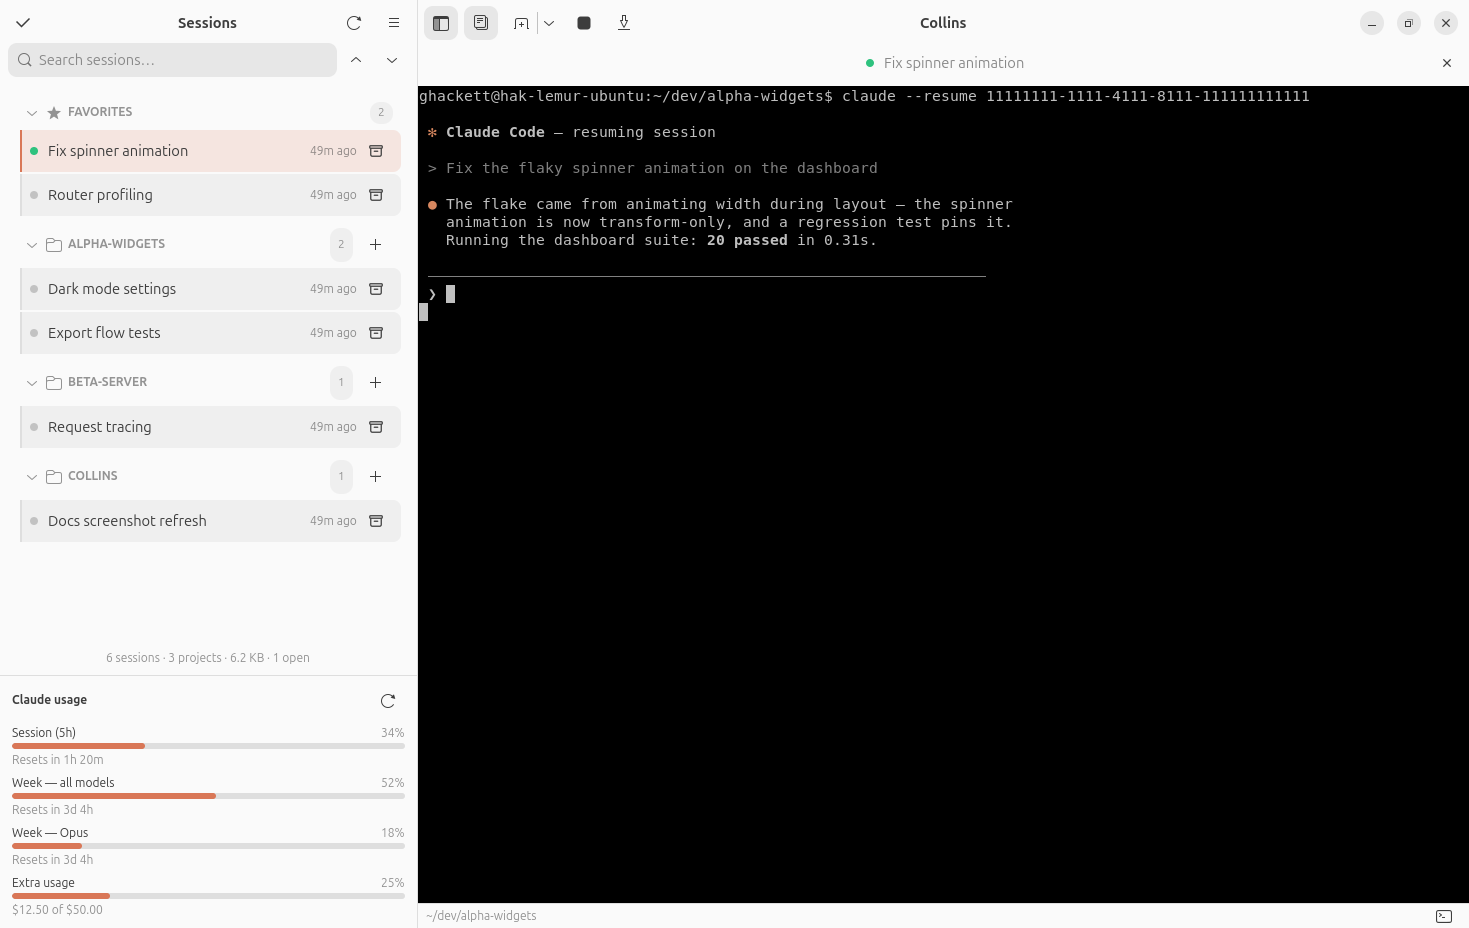
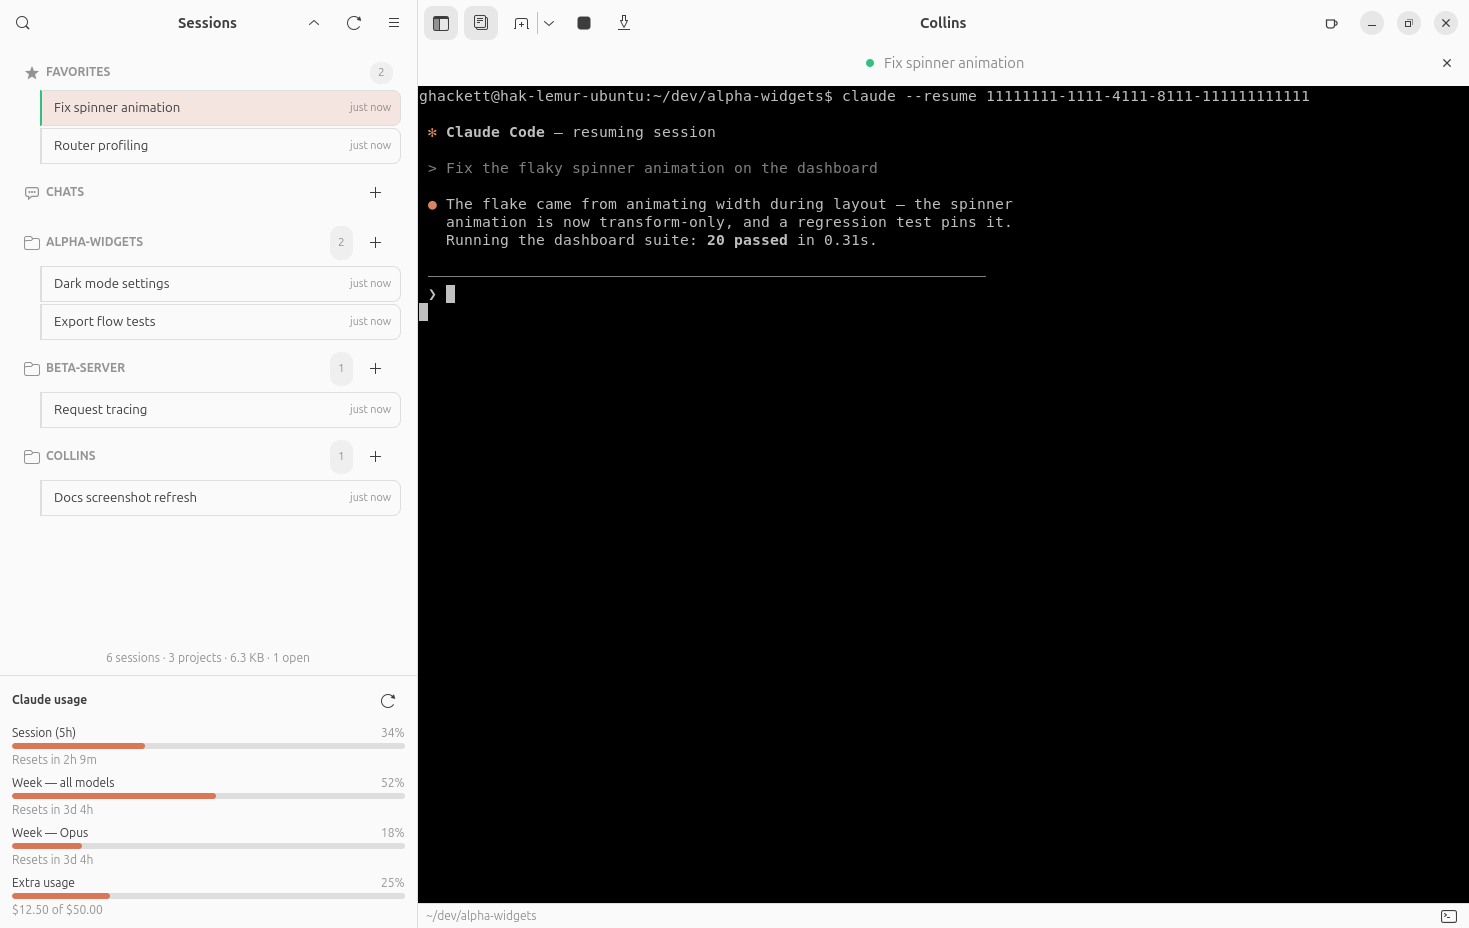
feat(sidebar): fold search behind a button, one accordion toggle, select mode into the menu
The sidebar header now carries every list-level control, and the permanent
search row is gone — the list starts right under the header.

- Search hides behind a button on the left. Clicking it hands the whole
  header to the entry and turns the button into an X (Esc works too), which
  closes search and restores the unfiltered list. Ctrl+Shift+F opens it.
- Collapse-all and expand-all become one toggle, left of refresh: it folds
  every group away, then flips to expanding them all once nothing is left
  open.
- "Select sessions" leaves the header for the menu as "Select multiple
  sessions", a stateful win.select-sessions action so the menu item shows
  whether selection mode is on.

Docs and the sidebar screenshots are refreshed for the new header.

Claude-Session: https://claude.ai/code/session_01YV3NR9HgiuSYfeqm1cQBc6

diff --git a/collins/sidebar.py b/collins/sidebar.py
@@ -1,6 +1,6 @@
 # Modified from the original agent-session-manager
 # (https://github.com/r4nd3l/agent-session-manager, GPL-3.0) in the ghackett
-# fork. Last modified: 2026-07-29. Full change history: git log for this file.
+# fork. Last modified: 2026-07-30. Full change history: git log for this file.
 
 """Session sidebar: search, project accordion, favorites, selection mode.
 
@@ -525,50 +525,48 @@ class SessionSidebar(Gtk.Box):
         # AdwOverlaySplitView coordinating the two bars, hide them here so they
         # aren't duplicated at the pane boundary.
         header.set_show_end_title_buttons(False)
-        header.set_title_widget(Adw.WindowTitle(title=_("Sessions")))
+        self._header = header
+        self._window_title = Adw.WindowTitle(title=_("Sessions"))
+        header.set_title_widget(self._window_title)
 
-        self.select_btn = Gtk.ToggleButton(icon_name="object-select-symbolic")
-        self.select_btn.set_tooltip_text(_("Select sessions"))
-        self.select_btn.connect("toggled", lambda b: self._set_selection_mode(b.get_active()))
-        header.pack_start(self.select_btn)
+        # Search is folded away behind a button: it costs the list a whole row
+        # when it sits there permanently, and it is reached a handful of times
+        # a session. Opening it hands the entry the header (see
+        # _set_search_active).
+        self.search_entry = Gtk.SearchEntry(placeholder_text=_("Search sessions…"), hexpand=True)
+        self.search_entry.connect("search-changed", lambda *_: self._invalidate())
+        self.search_entry.connect("stop-search", lambda *_: self.search_btn.set_active(False))
+
+        self.search_btn = Gtk.ToggleButton(icon_name="system-search-symbolic")
+        self.search_btn.set_tooltip_text(_("Search sessions"))
+        self.search_btn.connect("toggled", lambda b: self._set_search_active(b.get_active()))
+        header.pack_start(self.search_btn)
 
         menu = Gio.Menu()
+        menu.append(_("Select multiple sessions"), "win.select-sessions")
         menu.append(_("Open session file…"), "win.open-session-file")
         menu.append(_("Show archived sessions"), "win.show-archived")
         menu.append(_("Delete archived sessions…"), "win.trash-archived")
         menu.append(_("MCP servers"), "win.mcp-servers")
         menu.append(_("Preferences"), "win.preferences")
         menu.append(_("About Collins"), "win.about")
-        header.pack_end(Gtk.MenuButton(icon_name="open-menu-symbolic", menu_model=menu))
+        self._menu_btn = Gtk.MenuButton(icon_name="open-menu-symbolic", menu_model=menu)
+        header.pack_end(self._menu_btn)
 
-        refresh_btn = Gtk.Button(icon_name="view-refresh-symbolic")
-        refresh_btn.set_tooltip_text(_("Refresh session list"))
-        refresh_btn.set_action_name("win.refresh")
-        header.pack_end(refresh_btn)
+        self._refresh_btn = Gtk.Button(icon_name="view-refresh-symbolic")
+        self._refresh_btn.set_tooltip_text(_("Refresh session list"))
+        self._refresh_btn.set_action_name("win.refresh")
+        header.pack_end(self._refresh_btn)
+
+        # One button for both directions: it folds every group away, and once
+        # nothing is left expanded it opens them all again.
+        self._collapse_btn = Gtk.Button()
+        self._collapse_btn.connect(
+            "clicked", lambda *_: self._set_all_collapsed(not self._all_collapsed())
+        )
+        header.pack_end(self._collapse_btn)
+        self._update_collapse_button()
         self._view.add_top_bar(header)
-
-        # -- search + accordion controls --------------------------------------
-        self.search_entry = Gtk.SearchEntry(placeholder_text=_("Search sessions…"), hexpand=True)
-        self.search_entry.connect("search-changed", lambda *_: self._invalidate())
-
-        collapse_all = Gtk.Button(icon_name="pan-up-symbolic")
-        collapse_all.add_css_class("flat")
-        collapse_all.set_tooltip_text(_("Collapse all groups"))
-        collapse_all.connect("clicked", lambda *_: self._set_all_collapsed(True))
-
-        expand_all = Gtk.Button(icon_name="pan-down-symbolic")
-        expand_all.add_css_class("flat")
-        expand_all.set_tooltip_text(_("Expand all groups"))
-        expand_all.connect("clicked", lambda *_: self._set_all_collapsed(False))
-
-        search_box = Gtk.Box(orientation=Gtk.Orientation.HORIZONTAL, spacing=2)
-        search_box.set_margin_start(8)
-        search_box.set_margin_end(8)
-        search_box.set_margin_bottom(6)
-        search_box.append(self.search_entry)
-        search_box.append(collapse_all)
-        search_box.append(expand_all)
-        self._view.add_top_bar(search_box)
 
         # -- list ------------------------------------------------------------
         self.list = Gtk.ListBox()
@@ -750,6 +748,7 @@ class SessionSidebar(Gtk.Box):
                 self._rows[item.session_id] = row
                 self.list.append(row)
         self._apply_selection_to_rows()
+        self._update_collapse_button()
 
     def _apply_selection_to_rows(self) -> None:
         for row in self._rows.values():
@@ -793,7 +792,33 @@ class SessionSidebar(Gtk.Box):
         self._rebuild_rows()
         self._invalidate()
 
+    # -- search ------------------------------------------------------------------
+
+    def _set_search_active(self, active: bool) -> None:
+        """Swap the sidebar's title for the search entry, and back.
+
+        The entry takes the header over rather than sharing it: the sidebar is
+        narrow, and a search field squeezed between the other buttons would
+        show only a few characters of the query. The other buttons step aside
+        while searching — the X that replaces the search button brings them
+        back.
+        """
+        self.search_btn.set_icon_name(
+            "window-close-symbolic" if active else "system-search-symbolic"
+        )
+        self.search_btn.set_tooltip_text(_("Close search") if active else _("Search sessions"))
+        for button in (self._collapse_btn, self._refresh_btn, self._menu_btn):
+            button.set_visible(not active)
+        if active:
+            self._header.set_title_widget(self.search_entry)
+            self.search_entry.grab_focus()
+        else:
+            self.search_entry.set_text("")  # closing search unfilters the list
+            self._header.set_title_widget(self._window_title)
+
     def focus_search(self) -> None:
+        """Open search if it is folded away, and put the cursor in it."""
+        self.search_btn.set_active(True)
         self.search_entry.grab_focus()
 
     # -- filtering / grouping ----------------------------------------------------
@@ -831,6 +856,7 @@ class SessionSidebar(Gtk.Box):
         header = self._header_rows.get(group_key)
         if header is not None:
             header.set_collapsed(group_key in self._collapsed)
+        self._update_collapse_button()
         self._invalidate()
 
     def _set_all_collapsed(self, collapsed: bool) -> None:
@@ -840,7 +866,19 @@ class SessionSidebar(Gtk.Box):
         )
         for group_key, header in self._header_rows.items():
             header.set_collapsed(group_key in self._collapsed)
+        self._update_collapse_button()
         self._invalidate()
+
+    def _all_collapsed(self) -> bool:
+        return bool(self._header_rows) and set(self._header_rows) <= self._collapsed
+
+    def _update_collapse_button(self) -> None:
+        """Point the accordion toggle at whichever move is left to make."""
+        expands = self._all_collapsed()
+        self._collapse_btn.set_icon_name("pan-down-symbolic" if expands else "pan-up-symbolic")
+        self._collapse_btn.set_tooltip_text(
+            _("Expand all groups") if expands else _("Collapse all groups")
+        )
 
     # -- drag & drop project reordering ---------------------------------------
 
@@ -1069,7 +1107,9 @@ class SessionSidebar(Gtk.Box):
             self.action_bar.pack_end(button)
         return self.action_bar
 
-    def _set_selection_mode(self, active: bool) -> None:
+    def set_selection_mode(self, active: bool) -> None:
+        """Show a checkbox on every row and reveal the bulk action bar. Driven
+        by the window's "Select multiple sessions" menu item."""
         self._selection_mode = active
         if not active:
             self._selected.clear()

diff --git a/po/generate.py b/po/generate.py
@@ -1,7 +1,7 @@
 #!/usr/bin/env python3
 # Modified from the original agent-session-manager
 # (https://github.com/r4nd3l/agent-session-manager, GPL-3.0) in the ghackett
-# fork. Last modified: 2026-07-28. Full change history: git log for this file.
+# fork. Last modified: 2026-07-30. Full change history: git log for this file.
 """Generate per-language .po files and compile .mo into the package.
 
 Run from the repo root:  python3 po/generate.py
@@ -130,12 +130,14 @@ TRANSLATIONS: dict[str, dict[str, str]] = {
         "Remove from favorites": "Eltávolítás a kedvencekből",
         "Add to favorites": "Hozzáadás a kedvencekhez",
         "Sessions": "Munkamenetek",
-        "Select sessions": "Munkamenetek kijelölése",
+        "Select multiple sessions": "Több munkamenet kijelölése",
         "Show archived sessions": "Archivált munkamenetek megjelenítése",
         "MCP servers": "MCP-kiszolgálók",
         "About Collins": "A Collins névjegye",
         "Refresh session list": "Munkamenetlista frissítése",
         "Search sessions…": "Munkamenetek keresése…",
+        "Search sessions": "Munkamenetek keresése",
+        "Close search": "Keresés bezárása",
         "Collapse all groups": "Összes csoport összecsukása",
         "Expand all groups": "Összes csoport kibontása",
         "No sessions found": "Nincs találat",
@@ -381,12 +383,14 @@ TRANSLATIONS: dict[str, dict[str, str]] = {
         "Remove from favorites": "Aus Favoriten entfernen",
         "Add to favorites": "Zu Favoriten hinzufügen",
         "Sessions": "Sitzungen",
-        "Select sessions": "Sitzungen auswählen",
+        "Select multiple sessions": "Mehrere Sitzungen auswählen",
         "Show archived sessions": "Archivierte Sitzungen anzeigen",
         "MCP servers": "MCP-Server",
         "About Collins": "Über Collins",
         "Refresh session list": "Sitzungsliste aktualisieren",
         "Search sessions…": "Sitzungen suchen…",
+        "Search sessions": "Sitzungen suchen",
+        "Close search": "Suche schließen",
         "Collapse all groups": "Alle Gruppen einklappen",
         "Expand all groups": "Alle Gruppen ausklappen",
         "No sessions found": "Keine Sitzungen gefunden",
@@ -636,12 +640,14 @@ TRANSLATIONS: dict[str, dict[str, str]] = {
         "Remove from favorites": "Quitar de favoritos",
         "Add to favorites": "Añadir a favoritos",
         "Sessions": "Sesiones",
-        "Select sessions": "Seleccionar sesiones",
+        "Select multiple sessions": "Seleccionar varias sesiones",
         "Show archived sessions": "Mostrar sesiones archivadas",
         "MCP servers": "Servidores MCP",
         "About Collins": "Acerca de Collins",
         "Refresh session list": "Actualizar la lista de sesiones",
         "Search sessions…": "Buscar sesiones…",
+        "Search sessions": "Buscar sesiones",
+        "Close search": "Cerrar la búsqueda",
         "Collapse all groups": "Contraer todos los grupos",
         "Expand all groups": "Expandir todos los grupos",
         "No sessions found": "No se encontraron sesiones",
@@ -890,12 +896,14 @@ TRANSLATIONS: dict[str, dict[str, str]] = {
         "Remove from favorites": "Retirer des favoris",
         "Add to favorites": "Ajouter aux favoris",
         "Sessions": "Sessions",
-        "Select sessions": "Sélectionner des sessions",
+        "Select multiple sessions": "Sélectionner plusieurs sessions",
         "Show archived sessions": "Afficher les sessions archivées",
         "MCP servers": "Serveurs MCP",
         "About Collins": "À propos de Collins",
         "Refresh session list": "Actualiser la liste des sessions",
         "Search sessions…": "Rechercher des sessions…",
+        "Search sessions": "Rechercher des sessions",
+        "Close search": "Fermer la recherche",
         "Collapse all groups": "Réduire tous les groupes",
         "Expand all groups": "Développer tous les groupes",
         "No sessions found": "Aucune session trouvée",
@@ -1039,7 +1047,7 @@ TRANSLATIONS: dict[str, dict[str, str]] = {
 _HEADER = (
     "# Modified from the original agent-session-manager\n"
     "# (https://github.com/r4nd3l/agent-session-manager, GPL-3.0) in the ghackett\n"
-    "# fork. Last modified: 2026-07-28. Full change history: git log for this file.\n"
+    "# fork. Last modified: 2026-07-30. Full change history: git log for this file.\n"
     "# Generated by po/generate.py — do not edit by hand.\n"
     'msgid ""\n'
     'msgstr ""\n'

diff --git a/collins/window.py b/collins/window.py
@@ -1,6 +1,6 @@
 # Modified from the original agent-session-manager
 # (https://github.com/r4nd3l/agent-session-manager, GPL-3.0) in the ghackett
-# fork. Last modified: 2026-07-29. Full change history: git log for this file.
+# fork. Last modified: 2026-07-30. Full change history: git log for this file.
 """Main window: composes the session sidebar with the tabbed terminal area."""
 
 from __future__ import annotations
@@ -522,6 +522,12 @@ class MainWindow(Adw.ApplicationWindow):
         )
         show_archived.connect("change-state", self._on_show_archived)
         self.add_action(show_archived)
+
+        select_sessions = Gio.SimpleAction.new_stateful(
+            "select-sessions", None, GLib.Variant.new_boolean(False)
+        )
+        select_sessions.connect("change-state", self._on_select_sessions)
+        self.add_action(select_sessions)
 
     def _install_shortcuts(self) -> None:
         controller = Gtk.ShortcutController()
@@ -1691,6 +1697,10 @@ class MainWindow(Adw.ApplicationWindow):
     def _on_show_archived(self, action: Gio.SimpleAction, value: GLib.Variant) -> None:
         action.set_state(value)
         self.store.set_show_archived(value.get_boolean())
+
+    def _on_select_sessions(self, action: Gio.SimpleAction, value: GLib.Variant) -> None:
+        action.set_state(value)
+        self.sidebar.set_selection_mode(value.get_boolean())
 
     def _sync_trash_archived_action(self) -> None:
         self._trash_archived_action.set_enabled(bool(self.store.archived_sessions()))

diff --git a/.agents/capture-screenshots/scripts/capture-docs.py b/.agents/capture-screenshots/scripts/capture-docs.py
@@ -74,6 +74,7 @@ def stage(win) -> None:
     if panel:
         win.tab_view.get_selected_page().get_child().show_panel()
     if scene == "sidebar-search":
+        win.sidebar.search_btn.set_active(True)  # search hides behind its button
         win.sidebar.search_entry.set_text("dark")
     elif scene == "quick-switcher":
         win._quick_switch()

diff --git a/README.md b/README.md
@@ -1,7 +1,7 @@
 <!--
 Modified from the original agent-session-manager
 (https://github.com/r4nd3l/agent-session-manager, GPL-3.0) in the ghackett
-fork. Last modified: 2026-07-29. Full change history: git log for this file.
+fork. Last modified: 2026-07-30. Full change history: git log for this file.
 -->
 
 # Collins
@@ -23,7 +23,7 @@ Collins is a fork of [agent-session-manager](https://github.com/r4nd3l/agent-ses
 
 Features:
 
-- **Sidebar** lists every session found on disk (for Claude Code, under `~/.claude/projects/`), grouped by project (collapsible headers, with collapse-all/expand-all buttons next to the search box), with a **Favorites** section pinned on top — star a session to move it there. **Drag a project header** to rearrange projects — the order and each project's expanded state persist across restarts. A **search box** filters by name, project, preview, or session id, and the list **updates live** as sessions are created or written to.
+- **Sidebar** lists every session found on disk (for Claude Code, under `~/.claude/projects/`), grouped by project (collapsible headers, with a collapse-all/expand-all toggle in the sidebar header), with a **Favorites** section pinned on top — star a session to move it there. **Drag a project header** to rearrange projects — the order and each project's expanded state persist across restarts. The **search button** (or `Ctrl+Shift+F`) hands the sidebar header over to a search box that filters by name, project, preview, or session id, and the list **updates live** as sessions are created or written to.
 - Sessions can be given **custom names** (right-click → Rename…, or rename the session's tab), and unnamed sessions get an **auto-generated title**: pre-existing sessions are titled locally on launch (first 10 words of the initial prompt), while sessions created during an app run have their first prompt summarized to ≤5 words by a headless `claude -p --model haiku` run — the same CLI and login the whole app is based on, no extra credentials needed. Titles are persisted so each is generated only once; right-click → **Regenerate name** re-runs the model for one session, and a Preferences toggle turns auto-titling off (a manual rename always wins). Names, favorites, and archived sessions persist in `~/.config/collins/state.json` — your agents' own session files are never modified.
 - **Clicking a session** opens a tab in the main area; each tab is an embedded **VTE terminal** running your `$SHELL` with the agent's resume command (`claude --resume <session-id>` for Claude Code) typed into it, in the directory the session last worked in (worktree-aware). If the session is still running detached, Collins **re-attaches** to the live process (`claude attach`) instead of resuming a copy. When the agent exits you drop to a shell prompt; the tab closes when the shell exits. Closing a tab asks the agent to exit cleanly (Claude Code's `/exit`) in the background first — or, for agents that support it, the close dialog offers to **background the session** instead (Claude Code's `/bg`), leaving it running detached to re-attach to later. On the next launch the app **reopens the session you had focused** when you closed it, and the window comes back at its last size.
 - **In-terminal search** with a find bar (`Ctrl+Shift+G`) over the tab's scrollback.
@@ -35,7 +35,7 @@ Features:
 - Each tab has a slim **footer** showing the agent's live working directory (click to copy; worktree-aware) and the current **git branch** (⎇), plus the terminal-panel buttons.
 - **Right-click a session** for the full action set: open, open in [Ghostty](https://ghostty.org) (external window — Ghostty can't be embedded), fork (`--fork-session`), rename, regenerate name, favorite, **details** (messages/models/tokens, a peek at recent messages, and MCP servers/usage), copy session id, export as Markdown, reveal transcript, archive, move the transcript to trash, or delete permanently. **Right-click a project header** to start a new session there or archive the whole project — projects with no visible sessions still show their header (with a `+` button) so a folder stays reachable.
 - **Desktop notifications** when a background session goes quiet after producing output — click to jump to that tab (toggle in Preferences).
-- **Select mode** (checkbox button in the sidebar header) for bulk actions: open, star, archive, or trash many sessions at once.
+- **Select mode** (menu → *Select multiple sessions*) for bulk actions: open, star, archive, or trash many sessions at once.
 - **New session** (tab icon in the header) starts a fresh agent session (`claude`) in the **visible session's project** — no dialog needed; with no session visible it asks for a folder. Every project header also has a **`+` button** to start a session right there, and a just-started session shows a **"New Thread"** placeholder row until the agent writes its transcript.
 - **Quick switcher** (`Ctrl+Shift+K`) jumps to any session by type-ahead; the sidebar is **resizable** and its width is remembered.
 - **MCP servers browser** (menu → MCP servers): a read-only view of every MCP server configured in `~/.claude.json`, global and per-project.

diff --git a/docs/guide/features.md b/docs/guide/features.md
@@ -1,7 +1,7 @@
 <!--
 Modified from the original agent-session-manager
 (https://github.com/r4nd3l/agent-session-manager, GPL-3.0) in the ghackett
-fork. Last modified: 2026-07-29. Full change history: git log for this file.
+fork. Last modified: 2026-07-30. Full change history: git log for this file.
 -->
 
 # Features
@@ -9,8 +9,9 @@ fork. Last modified: 2026-07-29. Full change history: git log for this file.
 ## Sidebar
 
 - **Every session** under `~/.claude/projects/`, **grouped by project** with
-  collapsible headers (and collapse-all / expand-all buttons). Which projects
-  are expanded is remembered across restarts.
+  collapsible headers (and one header-bar toggle that collapses every group, or
+  opens them all again). Which projects are expanded is remembered across
+  restarts.
 - **Drag a project header** up or down to rearrange projects; the order is
   yours and persists (new projects join the list alphabetically).
 - A **Favorites** section pinned on top — star any session to move it there.
@@ -27,9 +28,9 @@ fork. Last modified: 2026-07-29. Full change history: git log for this file.
   project; right-click a header for *New session here* and *Archive project*.
   Projects whose sessions are all archived or favorited still show their header,
   so the folder stays reachable.
-- A **search box** that filters by name, project, message preview, or session
-  ID, plus a footer showing session, project, transcript-size, and open-tab
-  counts.
+- A **search button** that hands the whole sidebar header over to a search box
+  filtering by name, project, message preview, or session ID, plus a footer
+  showing session, project, transcript-size, and open-tab counts.
 - **Live updates** — sessions appear and reorder as they're created or written
   to, via a filesystem watch. A just-started session shows a **"New Thread"**
   placeholder row until the agent writes its transcript.
@@ -44,7 +45,9 @@ fork. Last modified: 2026-07-29. Full change history: git log for this file.
 
 ![Sidebar with the Favorites section expanded](/img/sidebar-favorites.png)
 
-The search box filters the whole list as you type:
+The search button (or `Ctrl+Shift+F`) opens the search box across the sidebar
+header, and it filters the whole list as you type — the **X** closes it again
+and restores the unfiltered list:
 
 ![Filtering sessions with the search box](/img/sidebar-search.png)
 
@@ -183,7 +186,7 @@ card overlays it — answer with a click instead of typing a number.
 
 ## Bulk actions & housekeeping
 
-- **Select mode** (checkbox button in the sidebar header) to open, star,
+- **Select mode** (sidebar menu → *Select multiple sessions*) to open, star,
   archive, or trash many sessions at once.
 - **Archive** sessions you're done with (kept on disk, toggle "Show archived"
   to see them and restore any of them); archiving a session with an open tab

diff --git a/docs/guide/keyboard-shortcuts.md b/docs/guide/keyboard-shortcuts.md
@@ -1,14 +1,14 @@
 <!--
 Modified from the original agent-session-manager
 (https://github.com/r4nd3l/agent-session-manager, GPL-3.0) in the ghackett
-fork. Last modified: 2026-07-28. Full change history: git log for this file.
+fork. Last modified: 2026-07-30. Full change history: git log for this file.
 -->
 
 # Keyboard Shortcuts
 
 | Shortcut | Action |
 | --- | --- |
-| `Ctrl+Shift+F` | Focus the sidebar search |
+| `Ctrl+Shift+F` | Open the sidebar search (`Esc` closes it) |
 | `Ctrl+Shift+T` | New session |
 | `Ctrl+Shift+N` | New window |
 | `Ctrl+W` | Close the current tab |
